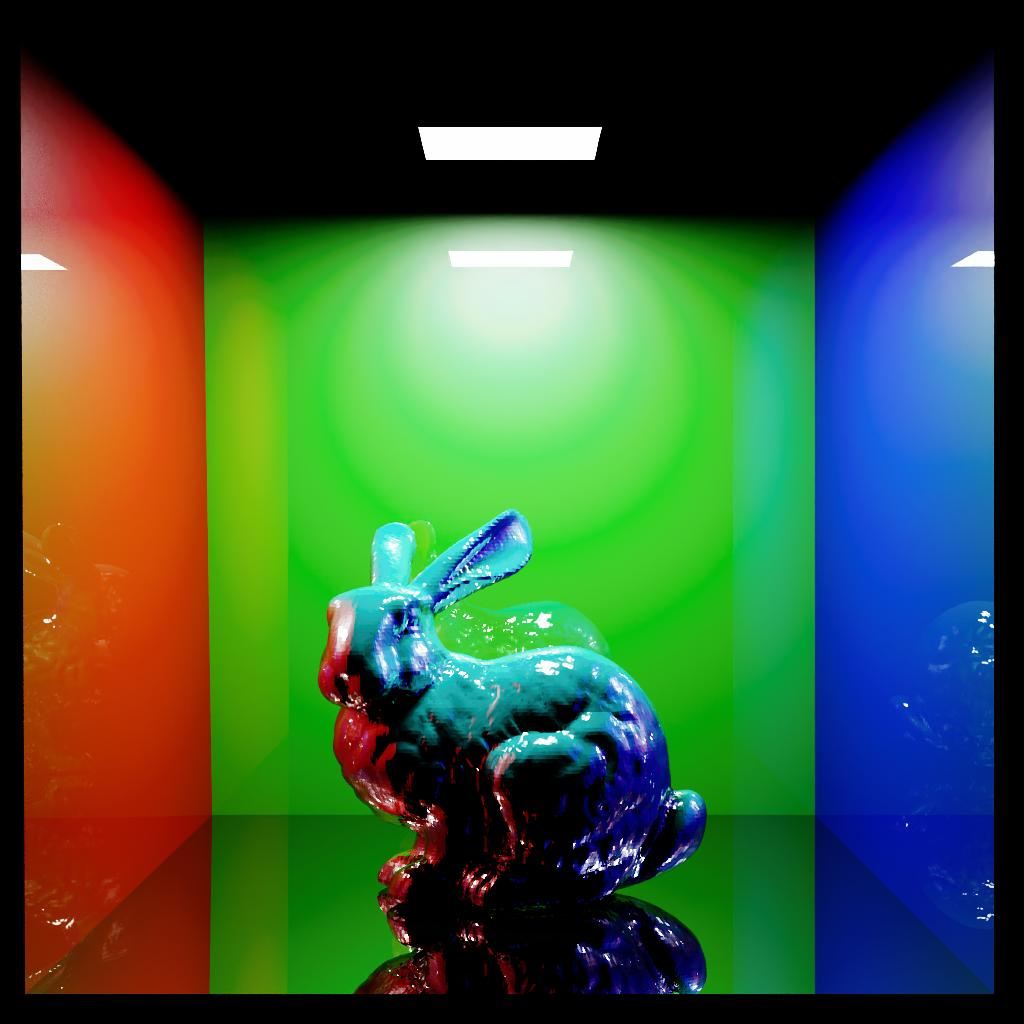
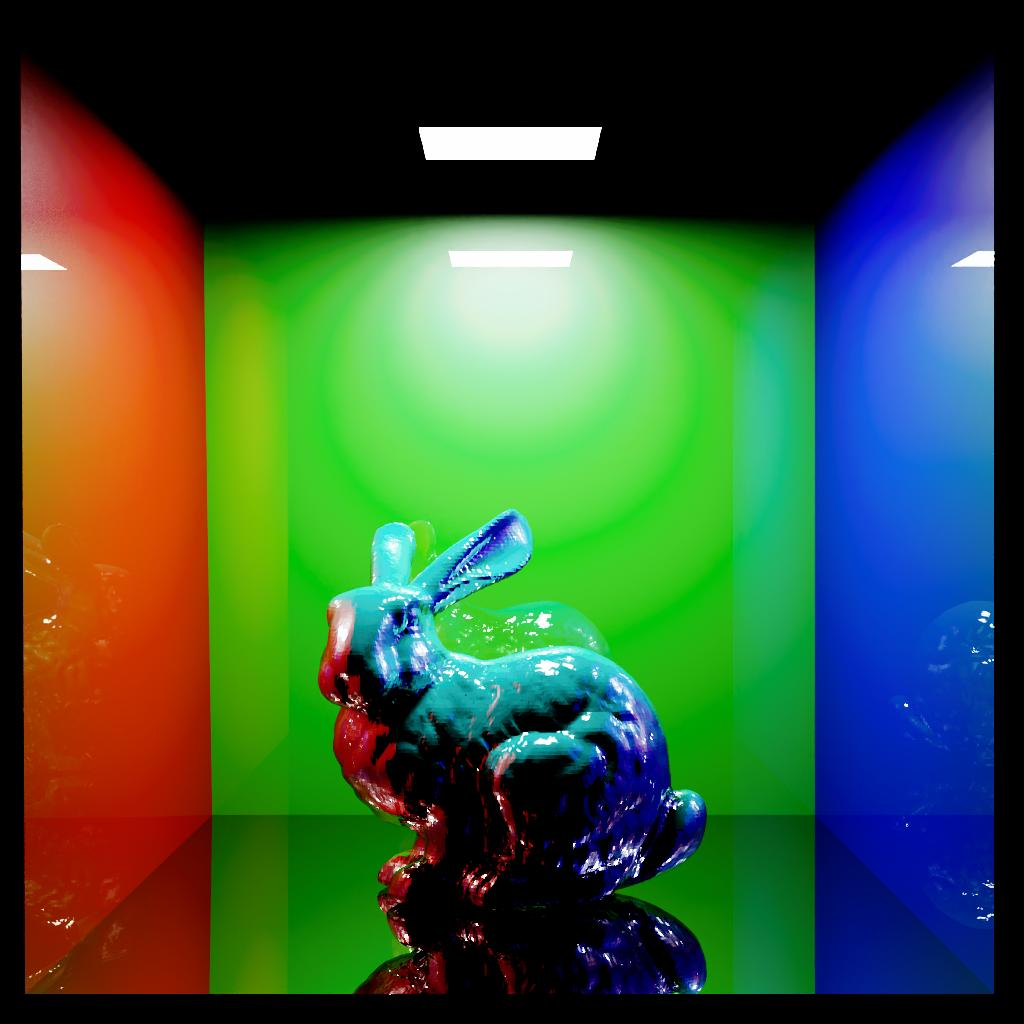
hw06: join partial commits

diff --git a/utils/obj_loader.py b/utils/obj_loader.py
@@ -7,23 +7,39 @@ import numpy as np
 from numba import njit
 from PIL import Image
 
-from src.constants import (
-    NO_TEXTURE,
-    MAT_DIFFUSE_R,
-    MAT_DIFFUSE_G,
-    MAT_DIFFUSE_B,
-    MAT_SPECULAR_R,
-    MAT_SPECULAR_G,
-    MAT_SPECULAR_B,
-    MAT_EMISSIVE_R,
-    MAT_EMISSIVE_G,
-    MAT_EMISSIVE_B,
-    MAT_TRANSMISSION_R,
-    MAT_TRANSMISSION_G,
-    MAT_TRANSMISSION_B,
-)
-
 from . import tinyobjloader_py as tiny_obj_loader
+
+# Import constants directly from module to avoid circular import through src.__init__
+# We use importlib to import the module without triggering src/__init__.py
+import importlib
+import os as _os
+
+# Find the constants module path directly
+_src_dir = _os.path.join(
+    _os.path.dirname(_os.path.dirname(_os.path.abspath(__file__))), "src"
+)
+_constants_path = _os.path.join(_src_dir, "constants.py")
+
+# Import the module directly from its file path
+import importlib.util as _util
+
+_spec = _util.spec_from_file_location("_src_constants", _constants_path)
+_constants_mod = _util.module_from_spec(_spec)
+_spec.loader.exec_module(_constants_mod)
+
+NO_TEXTURE = _constants_mod.NO_TEXTURE
+MAT_DIFFUSE_R = _constants_mod.MAT_DIFFUSE_R
+MAT_DIFFUSE_G = _constants_mod.MAT_DIFFUSE_G
+MAT_DIFFUSE_B = _constants_mod.MAT_DIFFUSE_B
+MAT_SPECULAR_R = _constants_mod.MAT_SPECULAR_R
+MAT_SPECULAR_G = _constants_mod.MAT_SPECULAR_G
+MAT_SPECULAR_B = _constants_mod.MAT_SPECULAR_B
+MAT_EMISSIVE_R = _constants_mod.MAT_EMISSIVE_R
+MAT_EMISSIVE_G = _constants_mod.MAT_EMISSIVE_G
+MAT_EMISSIVE_B = _constants_mod.MAT_EMISSIVE_B
+MAT_TRANSMISSION_R = _constants_mod.MAT_TRANSMISSION_R
+MAT_TRANSMISSION_G = _constants_mod.MAT_TRANSMISSION_G
+MAT_TRANSMISSION_B = _constants_mod.MAT_TRANSMISSION_B
 
 
 @njit
@@ -73,9 +89,9 @@ _ACESCG_MAT_T = np.array(
 )
 
 
-def _build_texture_data(diffuse_texnames, base_dir, color_space="acescg"):
+def _build_texture_data(diffuse_texnames, base_dir):
     # map material -> texture id, and build a padded texture atlas for device kernels
-    # Textures are loaded as sRGB from files and converted to the target color space
+    # Textures are loaded as sRGB from files and converted to acescg working space.
     num_materials = len(diffuse_texnames)
     mat_diffuse_tex_ids = np.full(num_materials, NO_TEXTURE, dtype=np.int32)
 
@@ -99,14 +115,11 @@ def _build_texture_data(diffuse_texnames, base_dir, color_space="acescg"):
             tex_img = Image.open(tex_path).convert("RGB")
             tex_arr = np.asarray(tex_img, dtype=np.float32) / 255.0
 
-            # convert from MTL sRGB to target color space
-            if color_space == "rec709":
-                tex_arr = _srgb_to_linear(tex_arr)
-            elif color_space == "acescg":
-                tex_arr_lin = _srgb_to_linear(tex_arr)
-                tex_arr = np.tensordot(
-                    tex_arr_lin, _ACESCG_MAT_T, axes=([2], [1])
-                ).reshape(tex_arr_lin.shape)
+            # convert from MTL sRGB → linear sRGB → acescg (ap1 d60)
+            tex_arr_lin = _srgb_to_linear(tex_arr)
+            tex_arr = np.tensordot(tex_arr_lin, _ACESCG_MAT_T, axes=([2], [1])).reshape(
+                tex_arr_lin.shape
+            )
 
             texture_images.append(tex_arr)
             texture_heights.append(tex_arr.shape[0])
@@ -170,37 +183,22 @@ def _convert_material_colors_to_acescg(materials):
     return materials
 
 
-def _apply_material_color_space(materials, color_space: str):
-    """Convert material colors to the target color space.
+def _apply_material_color_space(materials):
+    """Convert material colors from MTL sRGB to ACEScg working space.
+
+    all materials are converted to acescg (ap1 d60) at load time.
+    textures are converted from sRGB → linear sRGB → acescg.
 
     Args:
         materials: array shaped (N, 14) — RGB channels at indices 0, 3, 6, 9
-        color_space: "acescg" (ap1) or "rec709" (linear sRGB)
     """
-    if color_space == "acescg":
-        return _convert_material_colors_to_acescg(materials)
-    # rec709: convert from MTL sRGB to linear sRGB, keep in rec709
-    if materials.size == 0:
-        return materials
-
-    def convert_slice(start_idx):
-        rgb = materials[:, start_idx : start_idx + 3]
-        rgb[:, 0] = _srgb_to_linear(rgb[:, 0])
-        rgb[:, 1] = _srgb_to_linear(rgb[:, 1])
-        rgb[:, 2] = _srgb_to_linear(rgb[:, 2])
-
-    convert_slice(MAT_DIFFUSE_R)
-    convert_slice(MAT_SPECULAR_R)
-    convert_slice(MAT_EMISSIVE_R)
-    convert_slice(MAT_TRANSMISSION_R)
-    return materials
+    return _convert_material_colors_to_acescg(materials)
 
 
 def load_light_cam_data(json_path):
     with open(json_path, "r") as f:
         data = json.load(f)
-    color_space = data.get("material_color_space", "acescg")
-    return data["light"], data["camera"], data["obj_file"], color_space
+    return data["light"], data["camera"], data["obj_file"], "acescg"
 
 
 def load_scene(txt_path):
@@ -235,9 +233,9 @@ def load_scene(txt_path):
 
     mat_indices = np.array(raw_mat_idx, dtype=np.int32)
     materials = np.array(raw_mats, dtype=np.float32).reshape(-1, 14)
-    materials = _apply_material_color_space(materials, material_color_space)
+    materials = _apply_material_color_space(materials)
     mat_diffuse_tex_ids, texture_atlas, tex_widths, tex_heights = _build_texture_data(
-        raw_diffuse_texnames, base_dir, material_color_space
+        raw_diffuse_texnames, base_dir
     )
 
     num_tris = len(mat_indices)
